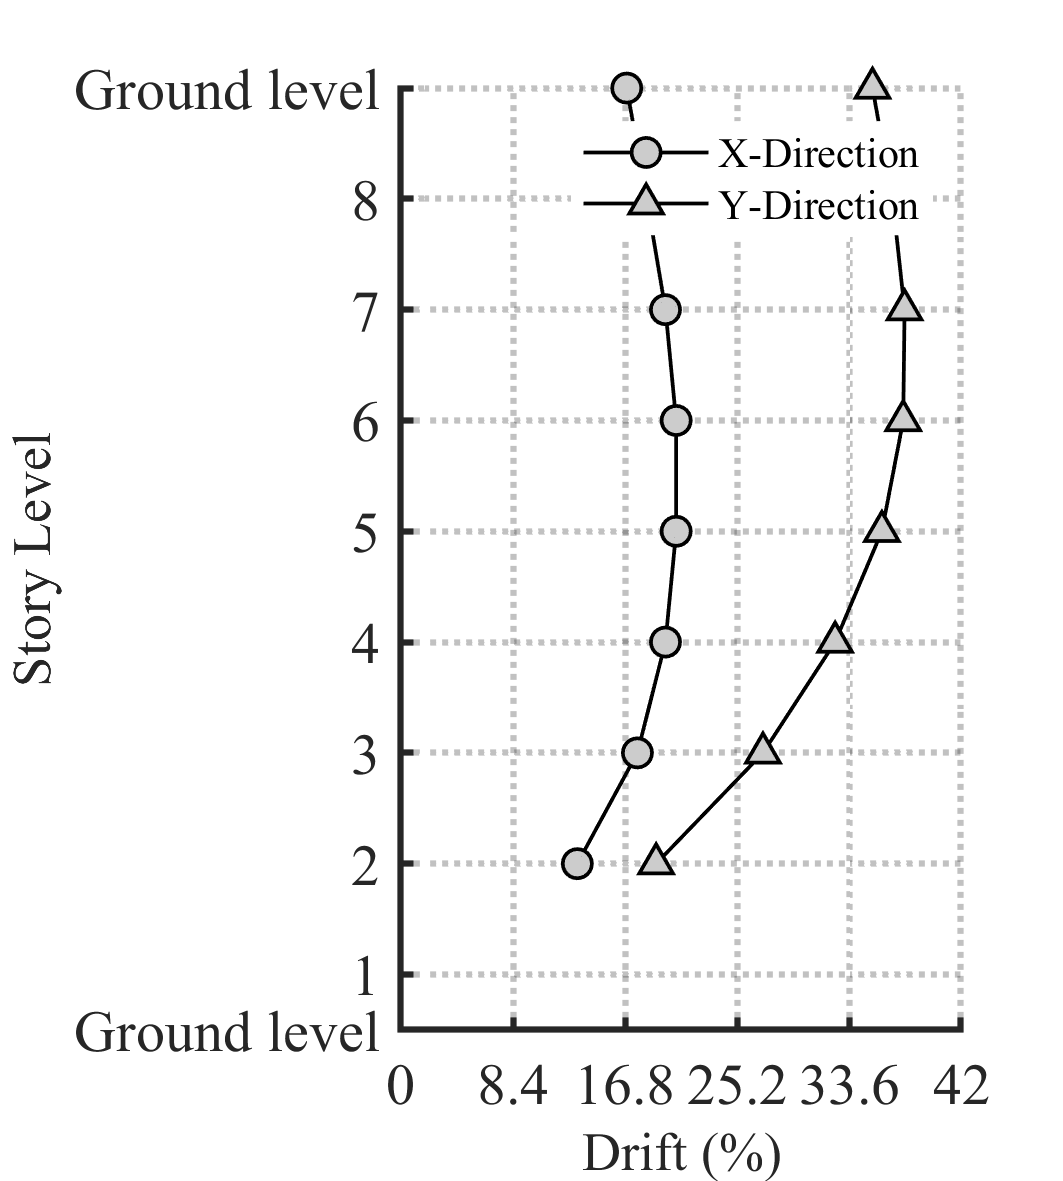
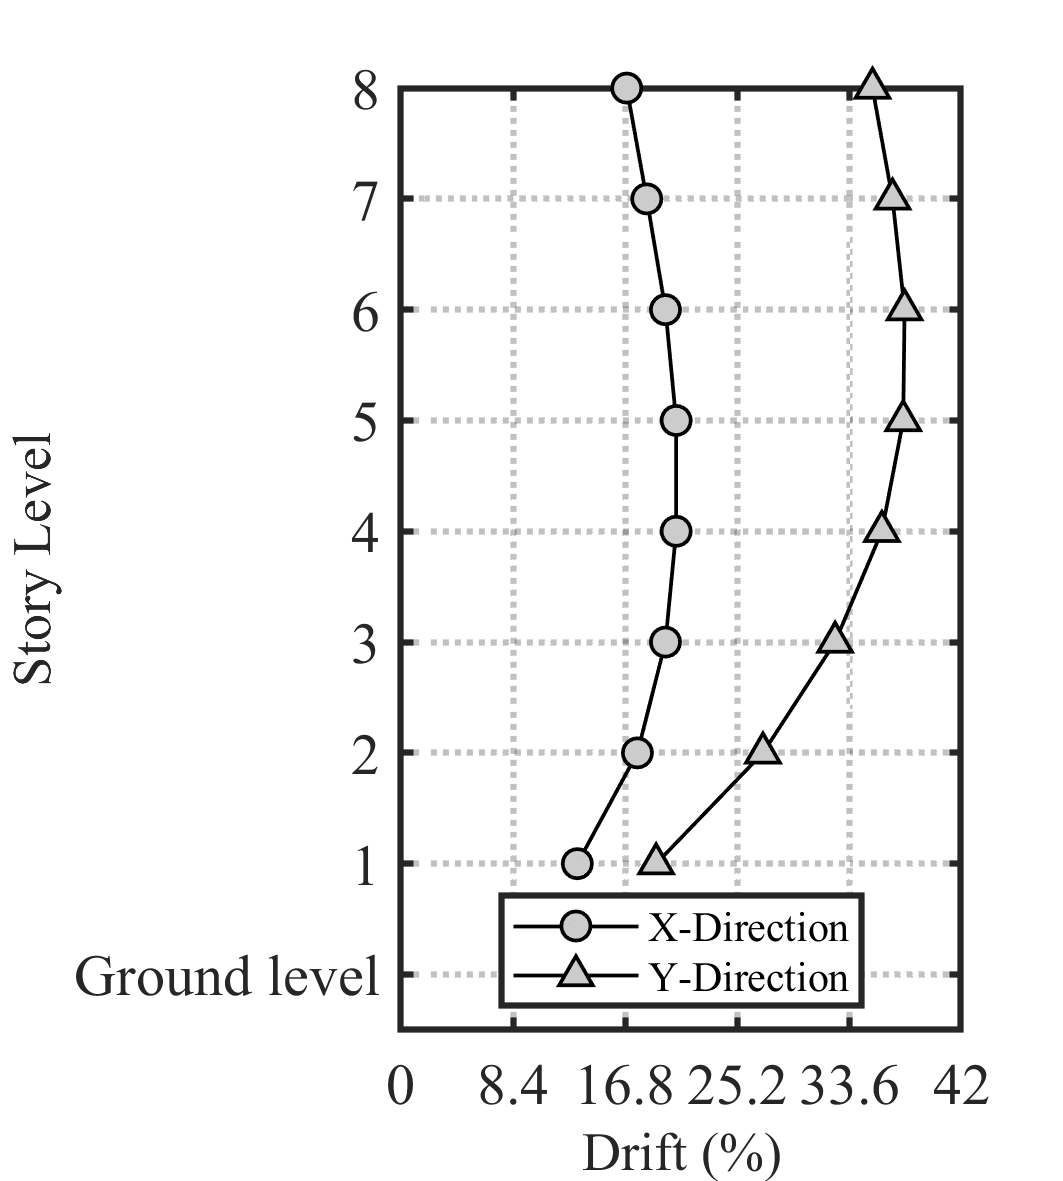
Fix y-axis label duplication in structural drift analysis visualizatio

diff --git a/Accelerations_TH/Drift_TH.m b/Accelerations_TH/Drift_TH.m
@@ -50,7 +50,7 @@ driftYData = [NaN; NaN; load(yDriftFile)] * 100; % Y-direction (%)
 driftXData = [NaN; NaN; load(xDriftFile)] * 100; % X-direction (%)
 
 %% ================== BUILDING HEIGHT CALCULATION ========================
-levelNames = {'Ground level';'1'; '2'; '3'; '4'; '5'; '6'; '7'; '8'};
+levelNames = {'';'Ground level';'1'; '2'; '3'; '4'; '5'; '6'; '7'; '8'};
 baseElevation = 2.5;    % Ground level height (m)
 storyHeight = 5;        % Interstory height (m)
 
@@ -97,10 +97,10 @@ grid on;
 ax.GridLineStyle = ':';
 ax.GridColor = [0.2 0.2 0.2];
 ax.GridAlpha = 0.3;
-box off;
+box on;
 
 % Legend configuration
-legend('Location', 'northeast', 'FontSize', 10, 'EdgeColor', 'none');
+legend('Location', 'best', 'FontSize', 10, 'Box', 'on');
 
 %% ===================== OUTPUT MANAGEMENT ==============================
 outputFile = fullfile(outputFolder, 'Building_Drift_Analysis');
